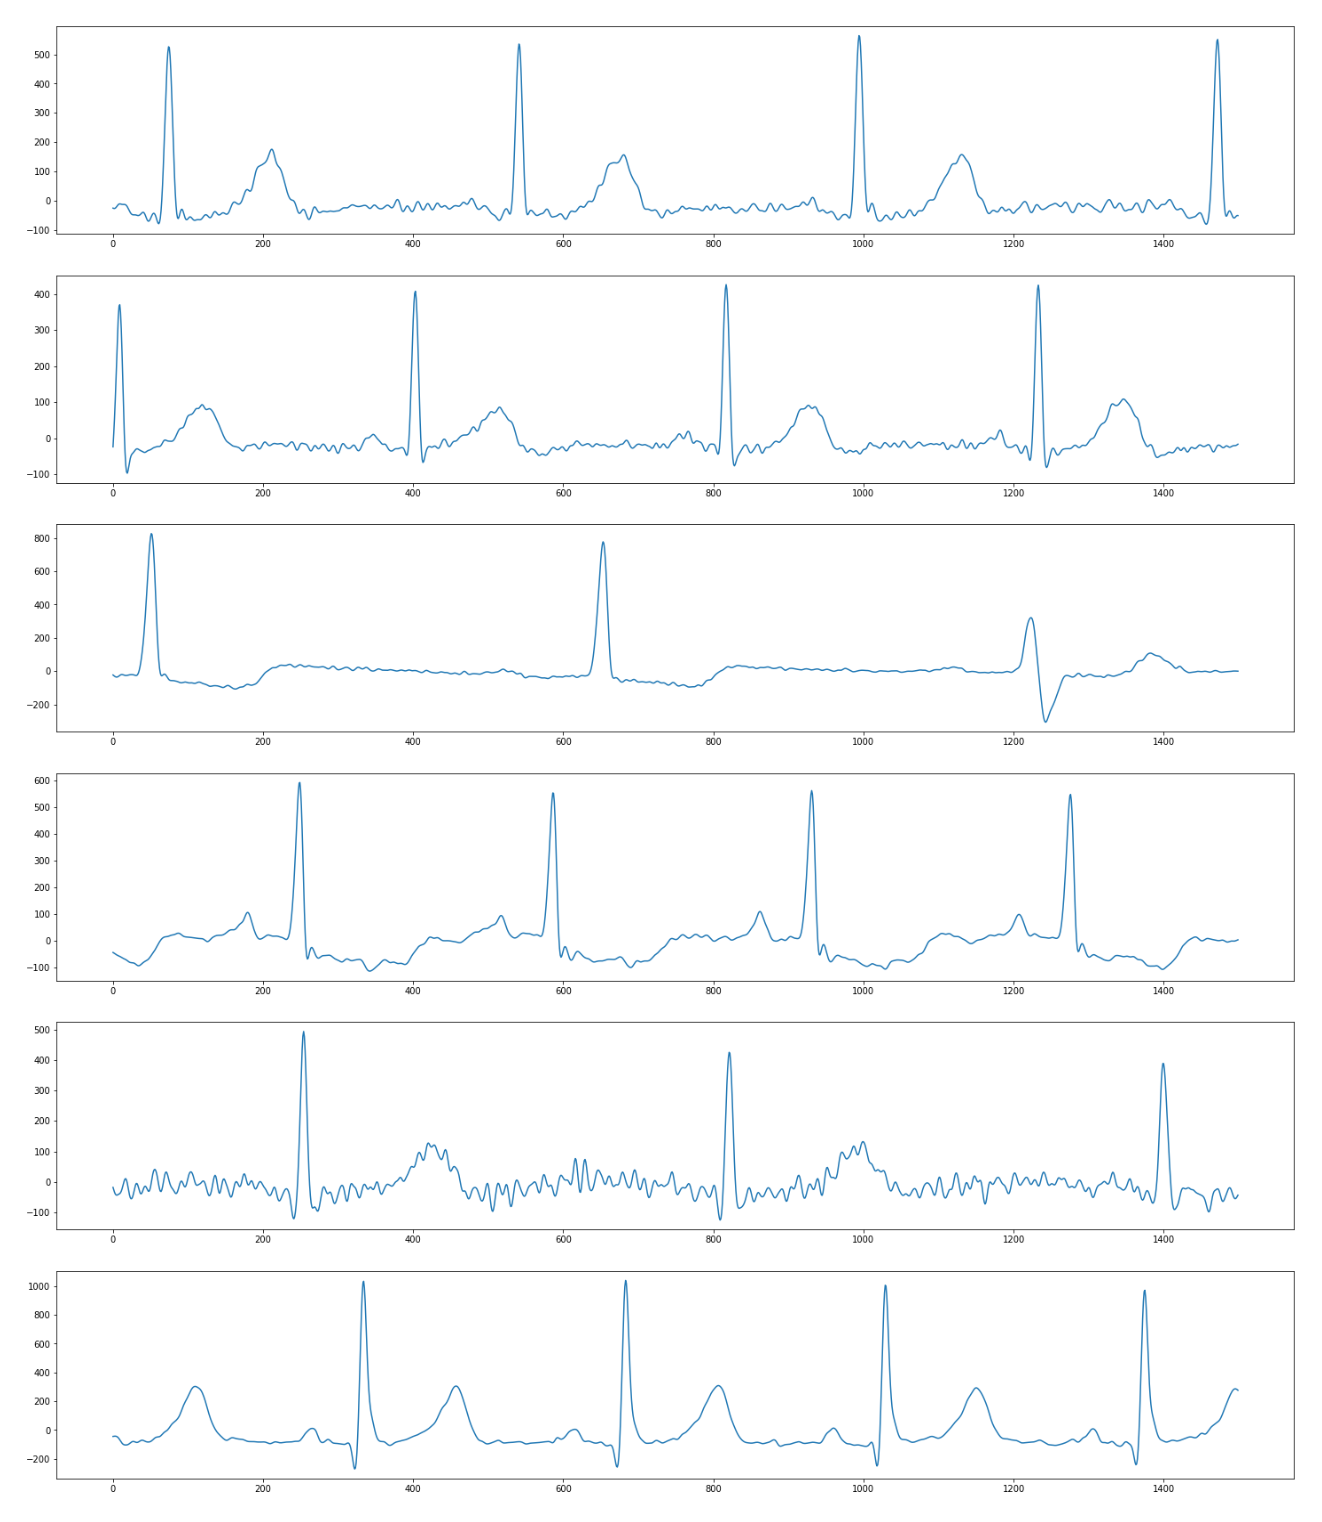
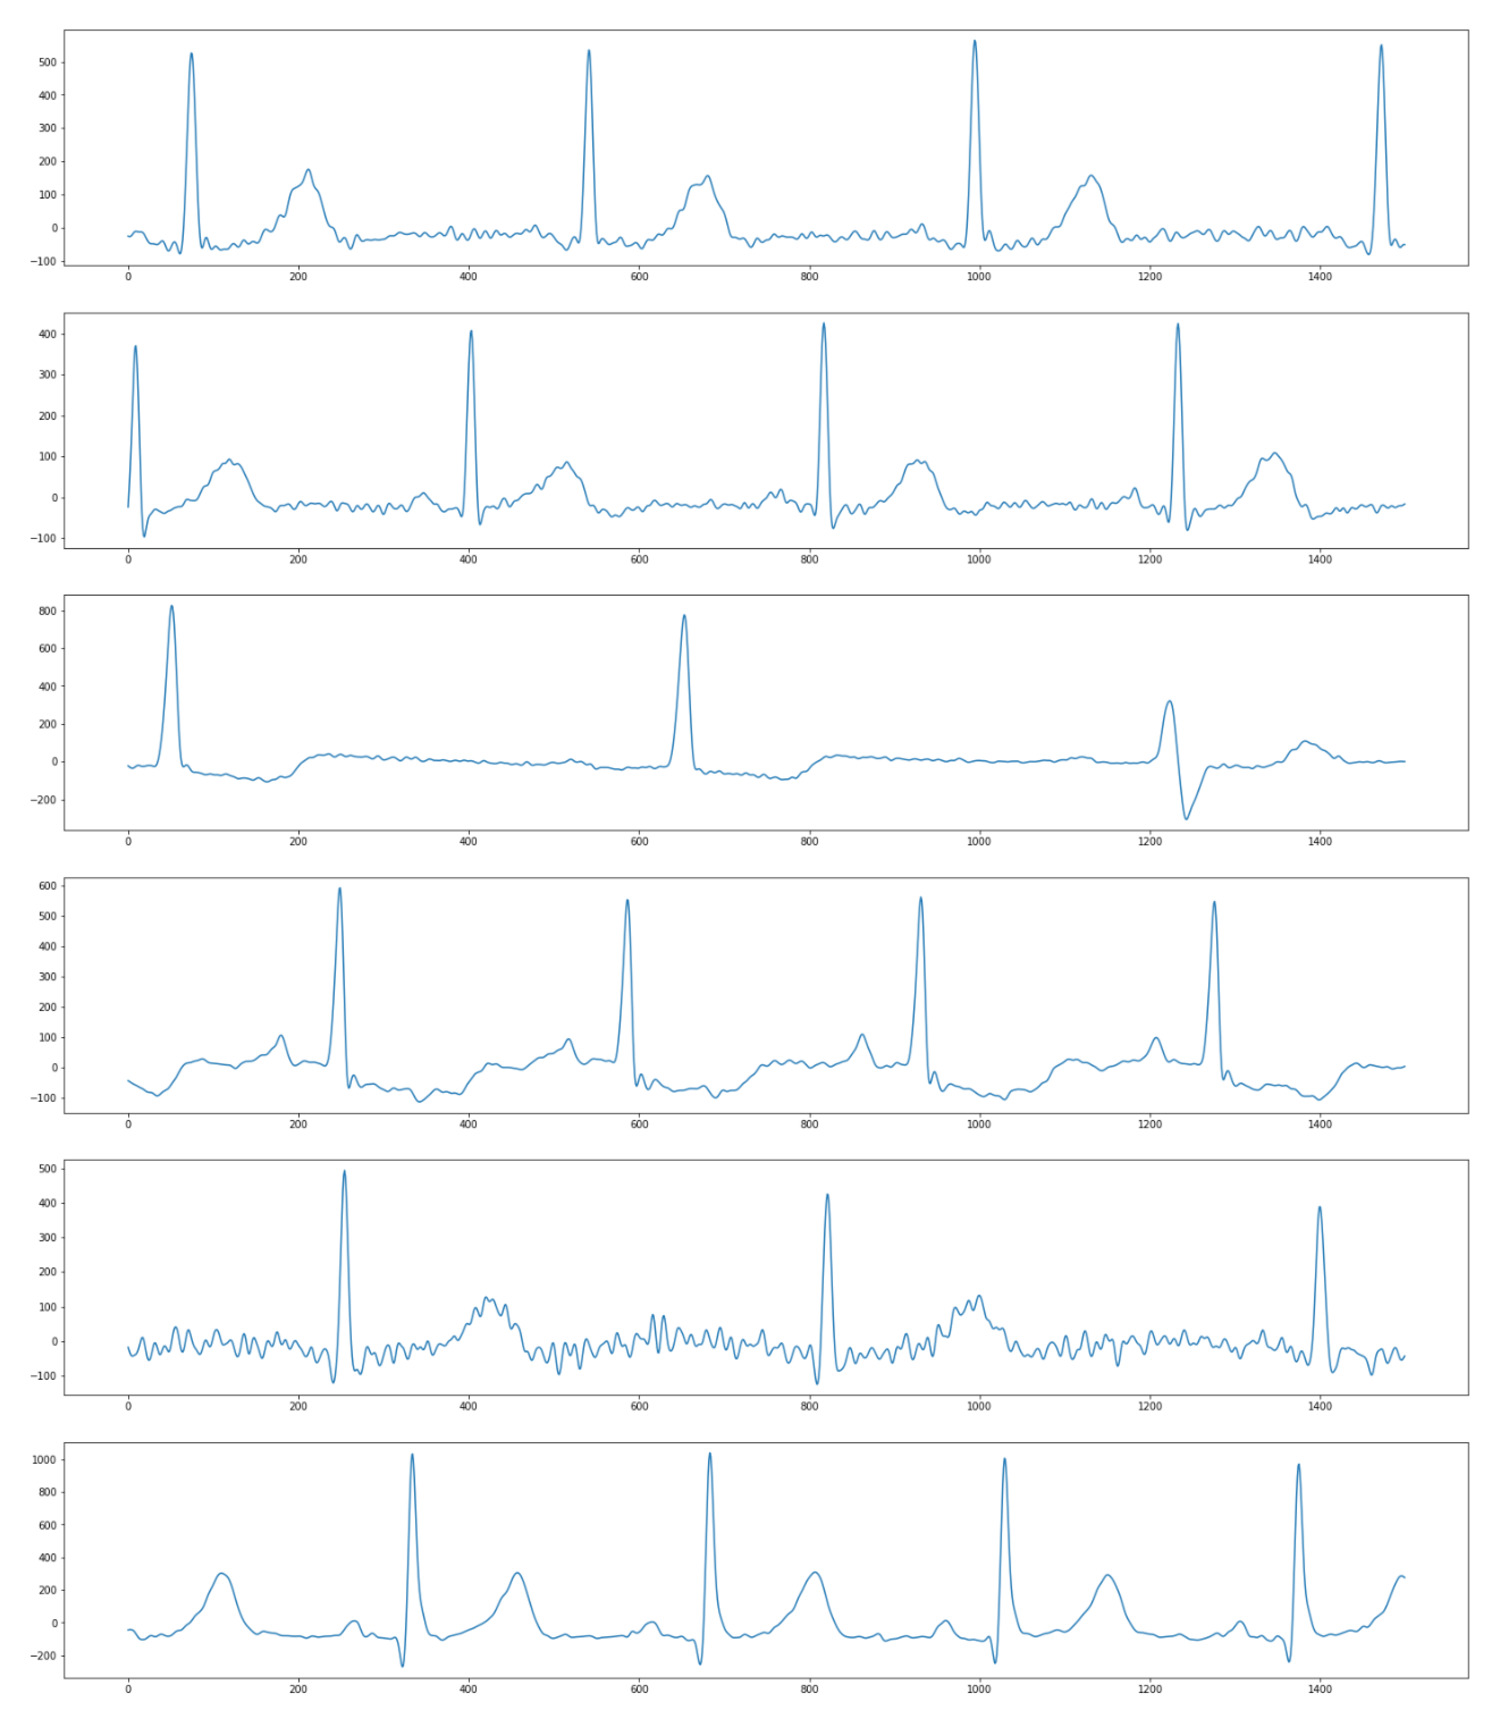
gather

diff --git a/_posts/2022-09-15-domain-generalization-part-1.md b/_posts/2022-09-15-domain-generalization-part-1.md
@@ -28,7 +28,7 @@ To address the domain shift problem, as well as the absence of target data, the 
 {: style="text-align: justify;"}
 {: .notice}
 
-<figure class="align-center" style="width: 1200px">
+<figure class="align-center">
   <img src="{{ site.url }}{{ site.baseurl }}/assets/images/domain-generalization/DG-DA.jpg">
   <figcaption>Figure 1. Examples from the PACS dataset for DG. </figcaption>
 </figure>
@@ -41,11 +41,11 @@ In this series of tutorials, besides introducing and explaining outstanding DG m
 The datasets are from PhysioNet Challenge 2021, containing twelve-lead ECG recordings from 6 sources in 4 countries across 3 continents. Each recording was annotated with one or more of 26 types of cardiac abnormalities, which means the problem is multi-label classification. Figure 2 shows the number of data samples in each dataset, and Figure 3 illustrates the difference in the appearance of signals from 6 domains. 
 {: style="text-align: justify;"}
 
-<figure class="align-center" style="width: 1200px">
+<figure class="align-center">
   <img src="{{ site.url }}{{ site.baseurl }}/assets/images/domain-generalization/data-sources.jpg">
   <figcaption>Figure 2. Number of data samples in each dataset. </figcaption>
 </figure>
-<figure class="align-center" style="width: 1200px">
+<figure class="align-center">
   <img src="{{ site.url }}{{ site.baseurl }}/assets/images/domain-generalization/signal-appearance.jpg">
   <figcaption>Figure 3. Difference in the appearance of signals from 6 domains. </figcaption>
 </figure>
